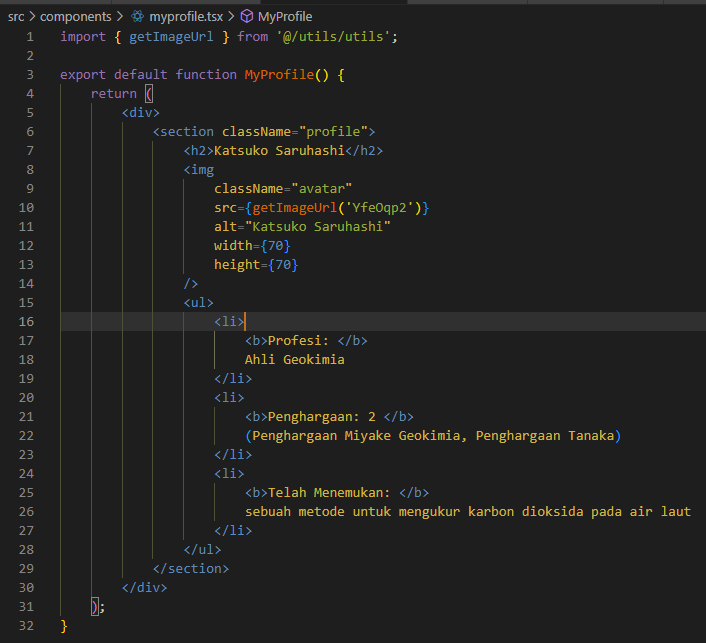
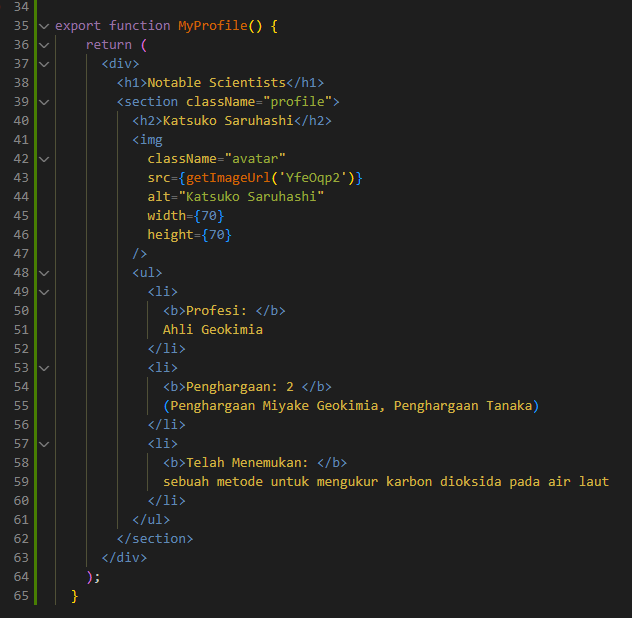
W03: Jawaban soal 7

diff --git a/src/components/mygallery.tsx b/src/components/mygallery.tsx
@@ -31,3 +31,35 @@ export default function MyGallery() {
     </div>
   );
 }
+
+export function MyProfile() {
+    return (
+      <div>
+        <h1>Notable Scientists</h1>
+        <section className="profile">
+          <h2>Katsuko Saruhashi</h2>
+          <img
+            className="avatar"
+            src={getImageUrl('YfeOqp2')}
+            alt="Katsuko Saruhashi"
+            width={70}
+            height={70}
+          />
+          <ul>
+            <li>
+              <b>Profesi: </b> 
+              Ahli Geokimia
+            </li>
+            <li>
+              <b>Penghargaan: 2 </b> 
+              (Penghargaan Miyake Geokimia, Penghargaan Tanaka)
+            </li>
+            <li>
+              <b>Telah Menemukan: </b>
+              sebuah metode untuk mengukur karbon dioksida pada air laut
+            </li>
+          </ul>
+        </section>
+      </div>
+    );
+}

diff --git a/src/app/page6/page.tsx b/src/app/page6/page.tsx
@@ -1,5 +1,4 @@
-import MyGallery from "@/components/mygallery";
-import MyProfile from "@/components/myprofile";
+import MyGallery, { MyProfile } from "@/components/mygallery";
 
 export default function Tes() {
     return (
